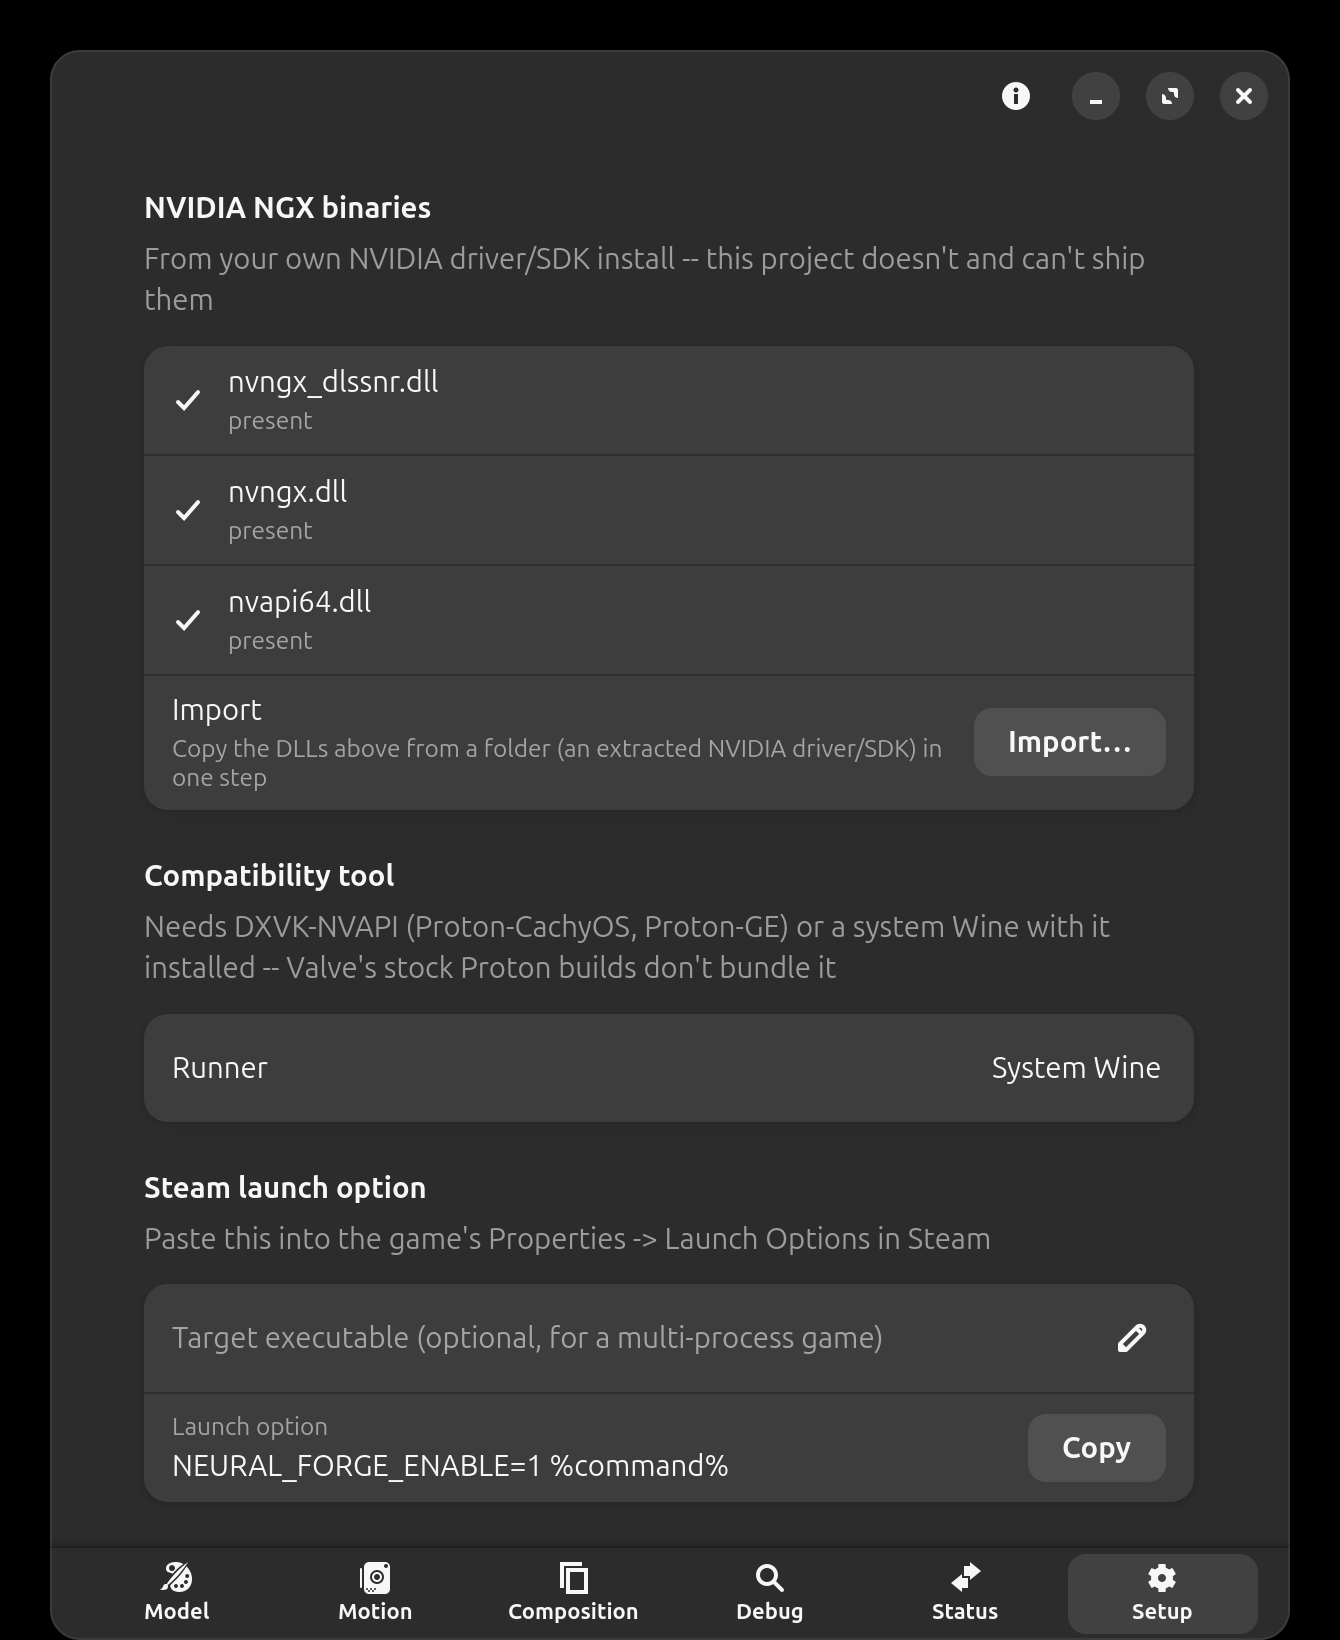
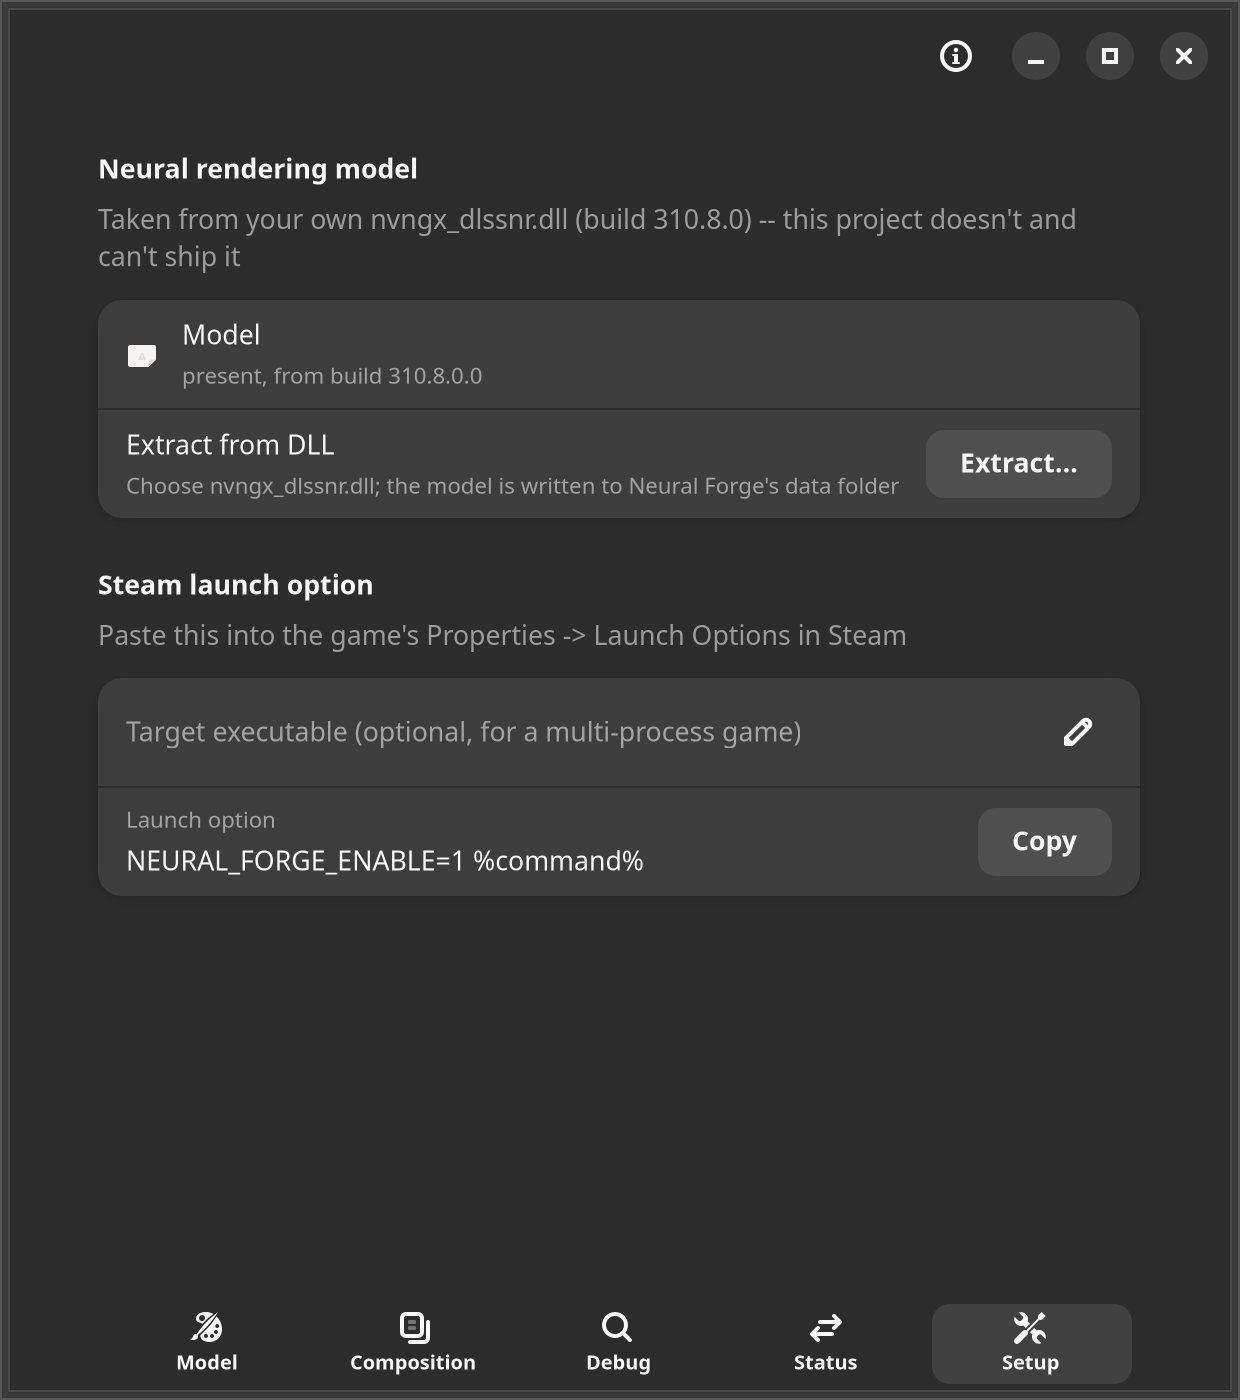
3.0 screenshots; an Intensity hint without the rebuild
The Model, Setup and Status tabs as 3.0 shows them. Intensity applies
at the next frame on the native path, so its hint says what it does.

diff --git a/crates/gui/src/ui.rs b/crates/gui/src/ui.rs
@@ -250,7 +250,7 @@ pub fn build_ui(app: &adw::Application, install_error: Option<String>) {
     model_group.add(&combo_row("Style", &["Default", "Natural", "Cinematic"], style, set_style));
 
     let (intensity, set_intensity) = bind_float(&shm, Some("intensity"), |h| &h.intensity_bits);
-    model_group.add(&spin_row("Intensity", "Applied when the model is rebuilt (after a short pause)", intensity, 0.0, 4.0, 0.05, set_intensity));
+    model_group.add(&spin_row("Intensity", "How strongly the model's answer replaces the frame", intensity, 0.0, 4.0, 0.05, set_intensity));
 
     let (local_tone, set_local_tone) = bind_float(&shm, Some("local_tone"), |h| &h.local_tone_bits);
     model_group.add(&spin_row("Local tone", "", local_tone, 0.0, 4.0, 0.05, set_local_tone));

diff --git a/README.md b/README.md
@@ -17,10 +17,9 @@ Repository: [labj1987/neural-forge](https://github.com/labj1987/neural-forge).
 
 | Model settings | Setup | Status |
 |---|---|---|
-| ![Model tab: the Neural rendering switch, style, intensity, local tone and structure, auto mask and passes](screenshots/settings.png) | ![Setup tab: NGX binaries present, the compatibility tool (runner) picker and the Steam launch option NEURAL_FORGE_ENABLE=1 %command%](screenshots/setup.png) | ![Status tab: telemetry, helper and layer state, and the Model placement line](screenshots/status.png) |
+| ![Model tab: the Neural rendering switch, style, intensity, local tone, local and skin structure, auto mask and the toggle key](screenshots/settings.png) | ![Setup tab: the model present from build 310.8.0.0, Extract from DLL, and the Steam launch option NEURAL_FORGE_ENABLE=1 %command%](screenshots/setup.png) | ![Status tab: telemetry, layer state, the Model placement line and the model](screenshots/status.png) |
 
-The screenshots show 2.0.0 with default settings and no game running. 3.0 has no passes, no
-runner picker and no helper row: Setup holds the model's extraction and the launch option.
+The screenshots show 3.0.0 with default settings and no game running.
 
 ### In games
 
